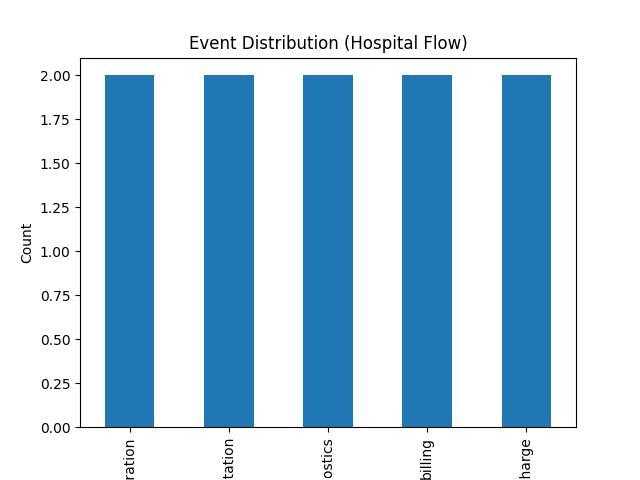
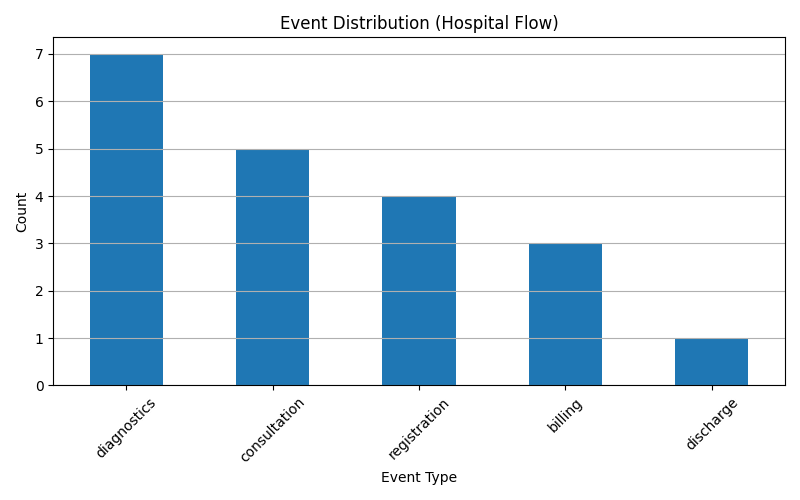
Final update: cleaned project and added dashboards

diff --git a/src/capacity_analysis.py b/src/capacity_analysis.py
@@ -1,35 +1,122 @@
 import pandas as pd
 import matplotlib.pyplot as plt
+import os
 
-# Load dataset
-df = pd.read_excel("data/events.xlsx")
+# ===============================
+# SETUP
+# ===============================
+os.makedirs("dashboards", exist_ok=True)
 
+# ===============================
+# LOAD DATA
+# ===============================
+df = pd.read_csv("data/events.csv")
 print("Columns:", df.columns)
 
-# -------------------------------
-# 1. Bed utilization (using event_type)
-# -------------------------------
+# ===============================
+# CLEAN DATA
+# ===============================
+df['event_type'] = df['event_type'].str.lower().str.strip()
+df['timestamp'] = pd.to_datetime(df['timestamp'])
+
+# ===============================
+# 1. EVENT DISTRIBUTION
+# ===============================
 bed_usage = df['event_type'].value_counts()
 
-plt.figure()
+plt.figure(figsize=(8,5))
 bed_usage.plot(kind='bar')
 plt.title("Event Distribution (Hospital Flow)")
 plt.xlabel("Event Type")
 plt.ylabel("Count")
+plt.xticks(rotation=45)
+plt.grid(axis='y')
+plt.tight_layout()
 plt.savefig("dashboards/bed_utilization.png")
 
-# -------------------------------
-# 2. Staff demand (hourly load)
-# -------------------------------
-df['hour'] = pd.to_datetime(df['timestamp']).dt.hour
-
+# ===============================
+# 2. STAFF DEMAND (HOURLY)
+# ===============================
+df['hour'] = df['timestamp'].dt.hour
 hourly = df['hour'].value_counts().sort_index()
 
-plt.figure()
+plt.figure(figsize=(8,5))
 hourly.plot(kind='line', marker='o')
 plt.title("Patient Flow by Hour")
 plt.xlabel("Hour")
 plt.ylabel("Number of Events")
+plt.grid(True)
+plt.tight_layout()
 plt.savefig("dashboards/staff_demand.png")
 
-print("Capacity analysis completed!")
+# ===============================
+# SORT DATA (IMPORTANT)
+# ===============================
+df = df.sort_values(['patient_id', 'timestamp'])
+
+# ===============================
+# 3. WAIT TIME (Registration → Consultation)
+# ===============================
+reg = df[df['event_type'] == 'registration']
+consult = df[df['event_type'] == 'consultation']
+
+wait = pd.merge(reg, consult, on='patient_id')
+wait = wait[wait['timestamp_y'] > wait['timestamp_x']]
+
+wait['wait_time'] = (
+    wait['timestamp_y'] - wait['timestamp_x']
+).dt.total_seconds() / 60
+
+plt.figure()
+plt.bar(wait['patient_id'], wait['wait_time'])
+plt.title("Wait Time per Patient")
+plt.xlabel("Patient ID")
+plt.ylabel("Minutes")
+plt.tight_layout()
+plt.savefig("dashboards/wait_time.png")
+
+# ===============================
+# 4. DELAYS
+# ===============================
+diag = df[df['event_type'] == 'diagnostics']
+bill = df[df['event_type'] == 'billing']
+
+cd = pd.merge(consult, diag, on='patient_id')
+cd = cd[cd['timestamp_y'] > cd['timestamp_x']]
+cd['delay'] = (
+    cd['timestamp_y'] - cd['timestamp_x']
+).dt.total_seconds() / 60
+
+db = pd.merge(diag, bill, on='patient_id')
+db = db[db['timestamp_y'] > db['timestamp_x']]
+db['delay'] = (
+    db['timestamp_y'] - db['timestamp_x']
+).dt.total_seconds() / 60
+
+delay_names = ["Consult→Diagnosis", "Diagnosis→Billing"]
+delay_values = [cd['delay'].mean(), db['delay'].mean()]
+
+plt.figure()
+plt.bar(delay_names, delay_values)
+plt.title("Delays in Patient Flow")
+plt.ylabel("Minutes")
+plt.tight_layout()
+plt.savefig("dashboards/delays.png")
+
+# ===============================
+# 5. PEAK HOURS
+# ===============================
+peak = df.groupby('hour').size()
+
+plt.figure()
+peak.plot(kind='bar')
+plt.title("Peak Hour Analysis")
+plt.xlabel("Hour")
+plt.ylabel("Patients")
+plt.tight_layout()
+plt.savefig("dashboards/peak_hour.png")
+
+# ===============================
+# DONE
+# ===============================
+print("All analysis completed ✅")
